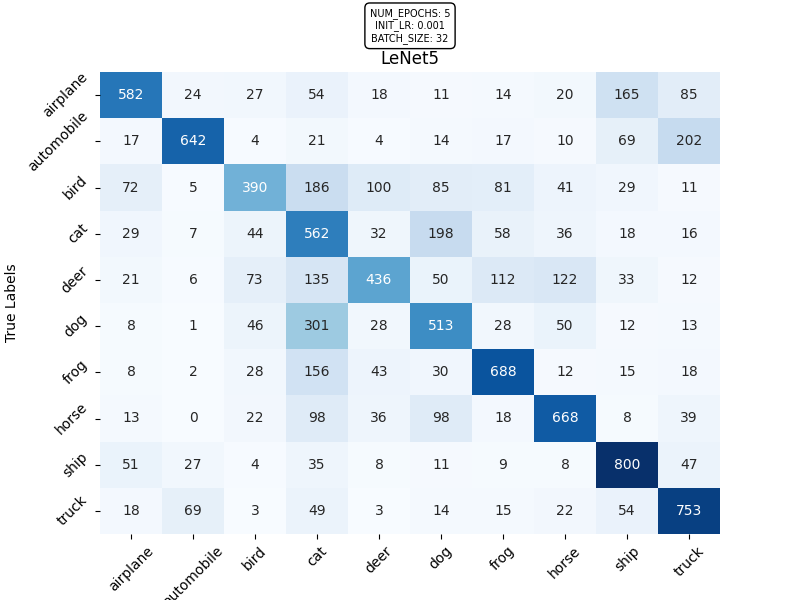
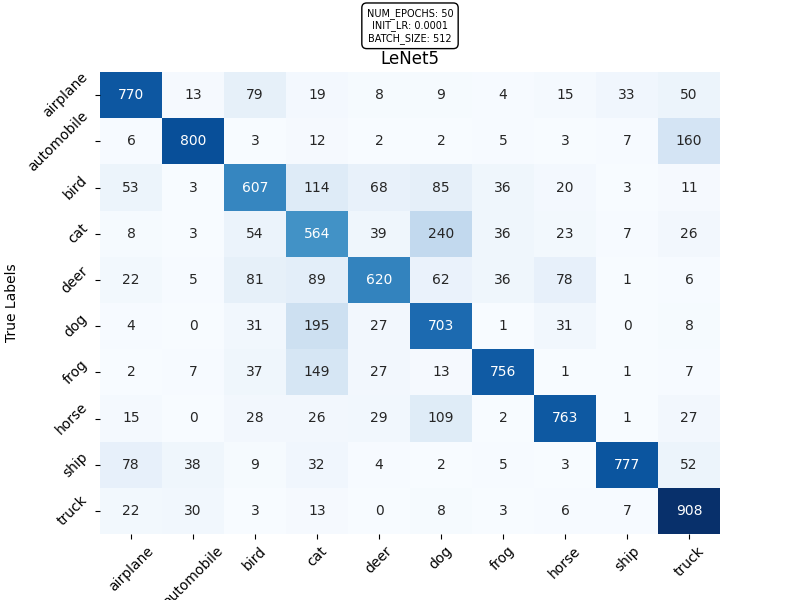
updates hyperpara for vgg

diff --git a/cnn_CIFAR10_LeNet5.py b/cnn_CIFAR10_LeNet5.py
@@ -13,12 +13,12 @@ import seaborn as sns
 def main():
 
     #Hyperparameter 
-    modelSavePath = './.gitignore/VGGCIFAR10.ckpt'
+    modelSavePath = './.gitignore/trainedModel/VGGCIFAR10.ckpt'
     TRAIN_MODEL = True  # True, wenn das Modell trainiert werden soll, False, wenn es geladen werden soll
 
-    NUM_EPOCHS = 5
-    INIT_LR = 0.001
-    BATCH_SIZE = 32
+    NUM_EPOCHS = 50
+    INIT_LR = 0.0001
+    BATCH_SIZE = 512
 
     # Check if CUDA is available and set device accordingly
     device = torch.device('cuda:0' if torch.cuda.is_available() else 'cpu')
@@ -90,10 +90,10 @@ def main():
             self.classifier = nn.Sequential(
                 nn.Linear(512 * 1 * 1, 4096),
                 nn.ReLU(inplace=True),
-                nn.Dropout(),
+                nn.Dropout(0.2),
                 nn.Linear(4096, 4096),
                 nn.ReLU(inplace=True),
-                nn.Dropout(),
+                nn.Dropout(0.2),
                 nn.Linear(4096, num_classes),
             )
 
@@ -131,16 +131,16 @@ def main():
                 loss.backward()
                 optimizer.step()
                 running_loss += loss.item()
-                if i % 100 == 99:
-                    print(f'Epoch {epoch+1}, Batch {i+1}, Loss: {running_loss/100:.3f}')
+                if i % 10 == 9:
+                    print(f'Epoch {epoch+1}, Batch {i+1}, Loss: {running_loss/10:.3f}')
                     running_loss = 0.0
 
         print('Training beendet')
 
         # Speichere das trainierte Modell
-        os.makedirs(os.path.dirname(modelSavePath), exist_ok=True)
-        torch.save(model.state_dict(), modelSavePath)
-        print(f'Modell wurde unter {modelSavePath} gespeichert.')
+        #os.makedirs(os.path.dirname(modelSavePath), exist_ok=True)
+       #torch.save(model.state_dict(), modelSavePath)
+        #print(f'Modell wurde unter {modelSavePath} gespeichert.')
 
     # 6. Evaluation des Netzwerks
     model.eval()
